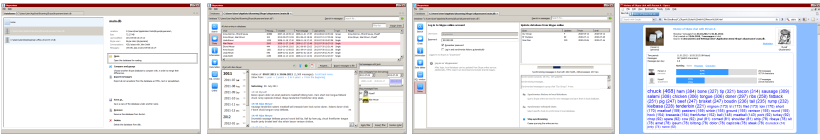
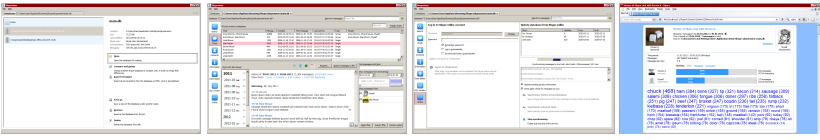
Updated texts and links and screenshots to v5.0.

diff --git a/install.html b/install.html
@@ -47,9 +47,9 @@
           <a href="https://github.com/suurjaak/Skyperious">View the Project on GitHub <small>suurjaak/Skyperious</small></a>
         </p>
         <ul>
-          <li><a href="https://erki.lap.ee/downloads/Skyperious/skyperious_4.8.1_setup.exe">Download <strong>Setup</strong></a></li>
-          <li><a href="https://erki.lap.ee/downloads/Skyperious/skyperious_4.8.1_x64_setup.exe">Download <strong>64bit Setup</strong></a></li>
-          <li><a href="https://erki.lap.ee/downloads/Skyperious/skyperious_4.8.1-src.zip">Download <strong>Source</strong></a></li>
+          <li><a href="https://erki.lap.ee/downloads/Skyperious/skyperious_5.0_setup.exe">Download <strong>Setup</strong></a></li>
+          <li><a href="https://erki.lap.ee/downloads/Skyperious/skyperious_5.0_x64_setup.exe">Download <strong>64bit Setup</strong></a></li>
+          <li><a href="https://erki.lap.ee/downloads/Skyperious/skyperious_5.0-src.zip">Download <strong>Source</strong></a></li>
         </ul>
       </header>
       <section>
@@ -62,8 +62,8 @@
 
         or, to run from source code:
         <ul>
-        <li>install <a href="https://www.python.org/downloads/">Python 2</a></li>
-        <li>open a command prompt in Skyperious directory</li>
+        <li>install <a href="https://www.python.org/downloads/">Python</a></li>
+        <li>install <a href="https://pip.pypa.io/en/latest/installing/">pip</a> if not installed</li>
         <li>run <code>pip install skyperious</code></li>
         <li>run <code>skyperious</code></li>
         </ul>
@@ -84,24 +84,21 @@
 
         <a name="linux"><h3>Linux</h3></a>
 
-        <p>Easiest to get wxPython installed for the graphical interface, is to use one of
-        the prepared wheels available at
-        <a href="https://extras.wxpython.org/wxPython4/extras/linux">https://extras.wxpython.org/wxPython4/extras/linux</a>.</p>
+        <p>The graphical interface needs wxPython, best installed with one of the prepared
+        Python wheels available at <a href="https://extras.wxpython.org/wxPython4/extras/linux">https://extras.wxpython.org/wxPython4/extras/linux</a>.</p>
 
-        <p>E.g. installing Skyperious for Ubuntu 18.04:</p>
+        <p>E.g. installing Skyperious for Ubuntu 20.04:</p>
         <ul>
-        <li>run <code>sudo apt-get install python python-pip libsdl2-2.0</code></li>
-        <li>run <code>sudo pip install -U -f --no-cache-dir https://extras.wxpython.org/wxPython4/extras/linux/gtk3/ubuntu-18.04 wxPython</code></li>
-        <li>run <code>sudo pip install skyperious</code></li>
+        <li>run <code>sudo apt-get install libgtk-3-0 libsdl2-2.0 libwebkit2gtk-4.0 python3 python3-pip</code></li>
+        <li>run <code>pip install wxPython --find-links https://extras.wxpython.org/wxPython4/extras/linux/gtk3/ubuntu-20.04</code></li>
+        <li>run <code>pip install skyperious</code></li>
         <li>run <code>skyperious</code></li>
         </ul>
 
         <p>Another option is to have wxPython built locally, e.g. for Ubuntu 20.04:</p>
         <ul>
-        <li>run <code>sudo apt-get install build-essential libgtk-3-dev libwxgtk3.0-gtk3-dev python</code></li>
-        <li>run <code>wget https://bootstrap.pypa.io/get-pip.py</code></li>
-        <li>run <code>sudo python get-pip.py</code></li>
-        <li>run <code>sudo pip install skyperious</code></li>
+        <li>run <code>sudo apt-get install build-essential libgtk-3-dev libsdl2-dev libwebkit2gtk-4.0-dev python3 python3-pip</code></li>
+        <li>run <code>pip install skyperious</code></li>
         <li>run <code>skyperious</code></li>
         </ul>
 
@@ -122,7 +119,7 @@
         </p>
 
         <p>
-        If running from source code, Skyperious needs Python 2.7. Python 3 is not supported.
+        If running from source code, Skyperious needs Python 3.5+ or Python 2.7.
         </p>
 
         <p>
@@ -137,7 +134,15 @@
         search syntax.
         </p>
 
+        <p>To run from source if Python, pip and git are installed:</p>
 
+        <pre>
+<code>git clone https://github.com/suurjaak/Skyperious
+cd Skyperious
+pip install -r requirements.txt
+./skyperious.sh
+# or: cd src && python -m skyperious</code>
+        </pre>
 
         <a name="docker"><h3>Docker</h3></a>
         <p>Pre-requisites:</p>
@@ -153,15 +158,16 @@
 docker build . -t skyperious
 
 xhost +
-docker run -it --rm --net=host --mount src=/,target=/mnt/host,type=bind -e DISPLAY -v /tmp/.X11-unix/:/tmp/.X11-unix/ skyperious</code>
+docker run -it --rm --net=host --mount src=/,target=/mnt/host,type=bind -e \
+DISPLAY -v /tmp/.X11-unix/:/tmp/.X11-unix/ skyperious</code>
         </pre>
 
-        <p><code>docker build . -t skyperious</code> will prepare an Ubuntu 18.04 Docker image
+        <p><code>docker build . -t skyperious</code> will prepare an Ubuntu 20.04 Docker image
         and install Skyperious and its dependencies within the container.</p>
 
         <p><code>xhost +</code> will allow the container to access the X Window System display.</p>
 
-        <p>Add <code>sudo</code> before docker commands if not running as root user.</p>
+        <p>Add <code>sudo</code> before docker commands if current user does not have rights for Docker.</p>
 
         <p>Add <code>--mount src="path to host directory",target=/etc/skyperious</code> after <code>docker run</code>
         to retain Skyperious configuration in a host directory between runs.</p>

diff --git a/index.html b/index.html
@@ -45,9 +45,9 @@
           <a href="https://github.com/suurjaak/Skyperious">View the Project on GitHub <small>suurjaak/Skyperious</small></a>
         </p>
         <ul>
-          <li><a href="https://erki.lap.ee/downloads/Skyperious/skyperious_4.8.1_setup.exe">Download <strong>Setup</strong></a></li>
-          <li><a href="https://erki.lap.ee/downloads/Skyperious/skyperious_4.8.1_x64_setup.exe">Download <strong>64bit Setup</strong></a></li>
-          <li><a href="https://erki.lap.ee/downloads/Skyperious/skyperious_4.8.1-src.zip">Download <strong>Source</strong></a></li>
+          <li><a href="https://erki.lap.ee/downloads/Skyperious/skyperious_5.0_setup.exe">Download <strong>Setup</strong></a></li>
+          <li><a href="https://erki.lap.ee/downloads/Skyperious/skyperious_5.0_x64_setup.exe">Download <strong>64bit Setup</strong></a></li>
+          <li><a href="https://erki.lap.ee/downloads/Skyperious/skyperious_5.0-src.zip">Download <strong>Source</strong></a></li>
         </ul>
       </header>
 
@@ -169,16 +169,17 @@ If running from straight source code, go to Skyperious directory, and launch
 
 Skyperious has been built using the following open-source software:
 <ul>
-<li>Python 2.7.18, <a href="http://www.python.org">www.python.org</a></li>
-<li>wxPython 4.1.0, <a href="http://wxpython.org">wxpython.org</a></li>
-<li>appdirs 1.4.4, <a href="https://pypi.org/project/appdirs">pypi.org/project/appdirs</a></li>
-<li>beautifulsoup4 4.9.3, <a href="https://pypi.org/project/beautifulsoup4">pypi.org/project/beautifulsoup4</a></li>
-<li>ijson 3.1.3, <a href="https://pypi.python.org/pypi/ijson">pypi.python.org/pypi/ijson</a></li>
-<li>Pillow 6.2.2, <a href="https://pypi.org/project/Pillow">pypi.org/project/Pillow</a></li>
-<li>pyparsing 2.4.7, <a href="https://pypi.org/project/pyparsing">pypi.org/project/pyparsing</a></li>
-<li>SkPy 0.10.2, <a href="https://pypi.org/project/SkPy">pypi.org/project/SkPy</a></li>
+<li>Python, <a href="http://www.python.org">www.python.org</a></li>
+<li>wxPython, <a href="http://wxpython.org">wxpython.org</a></li>
+<li>appdirs, <a href="https://pypi.org/project/appdirs">pypi.org/project/appdirs</a></li>
+<li>beautifulsoup4, <a href="https://pypi.org/project/beautifulsoup4">pypi.org/project/beautifulsoup4</a></li>
+<li>ijson, <a href="https://pypi.python.org/pypi/ijson">pypi.python.org/pypi/ijson</a></li>
+<li>Pillow, <a href="https://pypi.org/project/Pillow">pypi.org/project/Pillow</a></li>
+<li>pyparsing, <a href="https://pypi.org/project/pyparsing">pypi.org/project/pyparsing</a></li>
+<li>six, <a href="https://pypi.org/project/six">pypi.org/project/six</a></li>
+<li>SkPy, <a href="https://pypi.org/project/SkPy">pypi.org/project/SkPy</a></li>
 <li>step, Simple Template Engine for Python, <a href="https://github.com/dotpy/step">github.com/dotpy/step</a></li>
-<li>XlsxWriter 1.3.7, <a href="https://pypi.org/project/XlsxWriter">pypi.org/project/XlsxWriter</a></li>
+<li>XlsxWriter, <a href="https://pypi.org/project/XlsxWriter">pypi.org/project/XlsxWriter</a></li>
 </ul>
 
 <p>Binaries compiled with PyInstaller,

diff --git a/changelog.html b/changelog.html
@@ -40,14 +40,26 @@
           <a href="https://github.com/suurjaak/Skyperious">View the Project on GitHub <small>suurjaak/Skyperious</small></a>
         </p>
         <ul>
-          <li><a href="https://erki.lap.ee/downloads/Skyperious/skyperious_4.8.1_setup.exe">Download <strong>Setup</strong></a></li>
-          <li><a href="https://erki.lap.ee/downloads/Skyperious/skyperious_4.8.1_x64_setup.exe">Download <strong>64bit Setup</strong></a></li>
-          <li><a href="https://erki.lap.ee/downloads/Skyperious/skyperious_4.8.1-src.zip">Download <strong>Source</strong></a></li>
+          <li><a href="https://erki.lap.ee/downloads/Skyperious/skyperious_5.0_setup.exe">Download <strong>Setup</strong></a></li>
+          <li><a href="https://erki.lap.ee/downloads/Skyperious/skyperious_5.0_x64_setup.exe">Download <strong>64bit Setup</strong></a></li>
+          <li><a href="https://erki.lap.ee/downloads/Skyperious/skyperious_5.0-src.zip">Download <strong>Source</strong></a></li>
         </ul>
       </header>
 
       <section>
         <h2>Changelog</h2>
+
+        <h4>v5.0, 2022-04-02:</h4>
+        <ul>
+          <li>added contacts-tab</li>
+          <li>full Python2 / Python3 compatibility</li>
+          <li>moved to src-layout</li>
+          <li>ensure DOS linefeeds in Windows</li>
+          <li>fixed HTML exports not showing page icon</li>
+          <li>fixed error on opening chat with linefeeds in participant name (issue #103)</li>
+          <li>ensure database has required tables and fields before starting live sync (issue #106)</li>
+        </ul>
+        <br />
 
         <h4>v4.8.1, 2021-09-08:</h4>
         <ul>

diff --git a/screens.html b/screens.html
@@ -35,9 +35,9 @@
           <a href="https://github.com/suurjaak/Skyperious">View the Project on GitHub <small>suurjaak/Skyperious</small></a>
         </p>
         <ul>
-          <li><a href="https://erki.lap.ee/downloads/Skyperious/skyperious_4.8.1_setup.exe">Download <strong>Setup</strong></a></li>
-          <li><a href="https://erki.lap.ee/downloads/Skyperious/skyperious_4.8.1_x64_setup.exe">Download <strong>64bit Setup</strong></a></li>
-          <li><a href="https://erki.lap.ee/downloads/Skyperious/skyperious_4.8.1-src.zip">Download <strong>Source</strong></a></li>
+          <li><a href="https://erki.lap.ee/downloads/Skyperious/skyperious_5.0_setup.exe">Download <strong>Setup</strong></a></li>
+          <li><a href="https://erki.lap.ee/downloads/Skyperious/skyperious_5.0_x64_setup.exe">Download <strong>64bit Setup</strong></a></li>
+          <li><a href="https://erki.lap.ee/downloads/Skyperious/skyperious_5.0-src.zip">Download <strong>Source</strong></a></li>
         </ul>
       </header>
       <section>
@@ -81,6 +81,11 @@
 
         Filtering chat messages:<br />
         <a href="img/screen_browse_filter.png" rel="lightbox[Screenshots]" title="Filtering chat messages"><img src="img/th_screen_browse_filter.png" width="500" alt="Filtering chat messages" /></a>
+        </p>
+
+        <p>
+        Contact information:<br />
+        <a href="img/screen_browse_contacts.png" rel="lightbox[Screenshots]" title="Contact information"><img src="img/th_screen_browse_contacts.png" width="500" alt="Contact information" /></a>
         </p>
 
         <p>

diff --git a/help.html b/help.html
@@ -45,9 +45,9 @@
           <a href="https://github.com/suurjaak/Skyperious">View the Project on GitHub <small>suurjaak/Skyperious</small></a>
         </p>
         <ul>
-          <li><a href="https://erki.lap.ee/downloads/Skyperious/skyperious_4.8.1_setup.exe">Download <strong>Setup</strong></a></li>
-          <li><a href="https://erki.lap.ee/downloads/Skyperious/skyperious_4.8.1_x64_setup.exe">Download <strong>64bit Setup</strong></a></li>
-          <li><a href="https://erki.lap.ee/downloads/Skyperious/skyperious_4.8.1-src.zip">Download <strong>Source</strong></a></li>
+          <li><a href="https://erki.lap.ee/downloads/Skyperious/skyperious_5.0_setup.exe">Download <strong>Setup</strong></a></li>
+          <li><a href="https://erki.lap.ee/downloads/Skyperious/skyperious_5.0_x64_setup.exe">Download <strong>64bit Setup</strong></a></li>
+          <li><a href="https://erki.lap.ee/downloads/Skyperious/skyperious_5.0-src.zip">Download <strong>Source</strong></a></li>
         </ul>
       </header>
       <section>
@@ -388,7 +388,7 @@ Create a new blank database, or populated from Skype online service, or from a
 Skype export archive.
 
 positional arguments:
-  FILE                  Skype database file to create. Overwritten if exists.
+  FILE                  Skype database file to create. Skipped if exists.
 
 optional arguments:
   -h, --help            show this help message and exit

diff --git a/downloads.html b/downloads.html
@@ -40,9 +40,9 @@
           <a href="https://github.com/suurjaak/Skyperious">View the Project on GitHub <small>suurjaak/Skyperious</small></a>
         </p>
         <ul>
-          <li><a href="https://erki.lap.ee/downloads/Skyperious/skyperious_4.8.1_setup.exe">Download <strong>Setup</strong></a></li>
-          <li><a href="https://erki.lap.ee/downloads/Skyperious/skyperious_4.8.1_x64_setup.exe">Download <strong>64bit Setup</strong></a></li>
-          <li><a href="https://erki.lap.ee/downloads/Skyperious/skyperious_4.8.1-src.zip">Download <strong>Source</strong></a></li>
+          <li><a href="https://erki.lap.ee/downloads/Skyperious/skyperious_5.0_setup.exe">Download <strong>Setup</strong></a></li>
+          <li><a href="https://erki.lap.ee/downloads/Skyperious/skyperious_5.0_x64_setup.exe">Download <strong>64bit Setup</strong></a></li>
+          <li><a href="https://erki.lap.ee/downloads/Skyperious/skyperious_5.0-src.zip">Download <strong>Source</strong></a></li>
         </ul>
       </header>
       <section>

diff --git a/faq.html b/faq.html
@@ -40,9 +40,9 @@
           <a href="https://github.com/suurjaak/Skyperious">View the Project on GitHub <small>suurjaak/Skyperious</small></a>
         </p>
         <ul>
-          <li><a href="https://erki.lap.ee/downloads/Skyperious/skyperious_4.8.1_setup.exe">Download <strong>Setup</strong></a></li>
-          <li><a href="https://erki.lap.ee/downloads/Skyperious/skyperious_4.8.1_x64_setup.exe">Download <strong>64bit Setup</strong></a></li>
-          <li><a href="https://erki.lap.ee/downloads/Skyperious/skyperious_4.8.1-src.zip">Download <strong>Source</strong></a></li>
+          <li><a href="https://erki.lap.ee/downloads/Skyperious/skyperious_5.0_setup.exe">Download <strong>Setup</strong></a></li>
+          <li><a href="https://erki.lap.ee/downloads/Skyperious/skyperious_5.0_x64_setup.exe">Download <strong>64bit Setup</strong></a></li>
+          <li><a href="https://erki.lap.ee/downloads/Skyperious/skyperious_5.0-src.zip">Download <strong>Source</strong></a></li>
         </ul>
       </header>
       <section>
